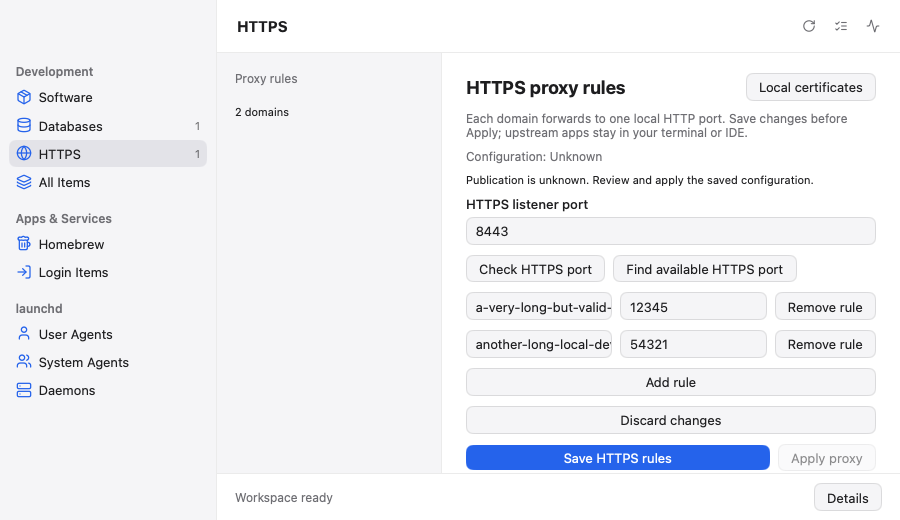
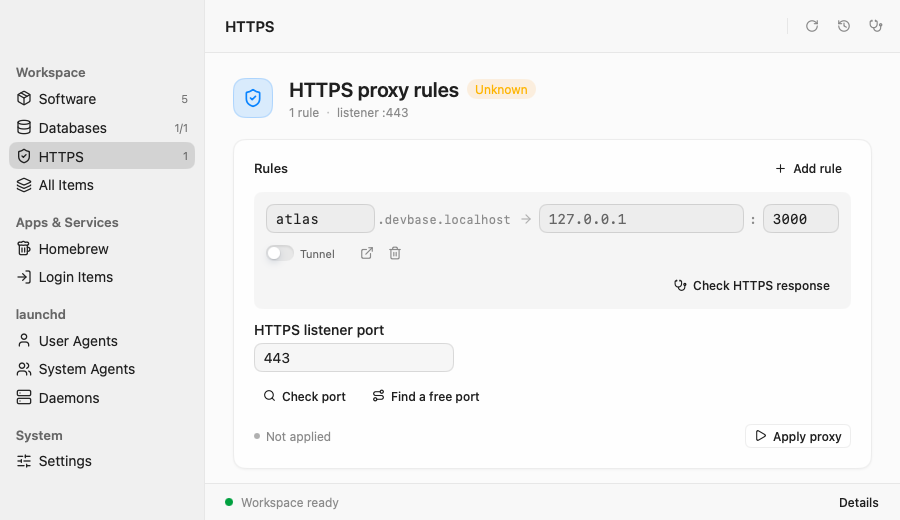
Update development UI documentation and remove stale screenshots

diff --git a/docs/product-scope.md b/docs/product-scope.md
@@ -14,7 +14,7 @@ HTTPS provides a single configuration page with a table of **Domain → Local po
 
 ## Lifecycle and safety
 
-Closing the window leaves managed work running. Quitting leaves background HTTPS proxy and Cloudflare tunnel `launchd` jobs running without prompting; when managed databases or unsaved edits are present, Quit offers a clear choice to keep managed resources or stop selected app-owned database jobs. Authorization and trust must be shown as separate operations. The app does not take ownership of unrelated processes, system services, Homebrew kegs, hosts entries, or certificates. The optional privileged helper only serves the Devbase build it was installed from, running as the installing user. Legacy state is rejected without silent conversion or overwrite. This product revision has no old Project schema migration or compatibility layer; tests use a fresh isolated state root. Removing old features is not authorization to delete real databases, shared software, or unknown jobs on a user's machine.
+Closing the window leaves managed work running. Quitting leaves background HTTPS proxy and Cloudflare tunnel `launchd` jobs running without prompting; when managed databases or unsaved edits are present, Quit offers a clear choice to keep managed resources or stop selected app-owned database jobs. Authorization and trust must be shown as separate operations. The app does not take ownership of unrelated processes, system services, Homebrew kegs, hosts entries, or certificates. The optional privileged helper only serves the Devbase build it was installed from, running as the installing user. Legacy state is rejected without silent conversion or overwrite. This product revision has no old Project schema migration or compatibility layer; tests use a fresh isolated state root. Devbase (`xyz.jyeu.devbase`) is also a new bundle for users of the released macOS Service Manager v1.0.0 (`xyz.jyeu.msm.app`), and it deliberately imports nothing from it: that app kept only its window frame, a `welcomed` marker and a cache of the last `sfltool dumpbtm` answer, so after the upgrade the window opens at its default size, the welcome guide may appear once more, and Login Items helpers show again after one refresh. The old app is a separate bundle and is not removed. Removing old features is not authorization to delete real databases, shared software, or unknown jobs on a user's machine.
 
 ## Explicitly outside scope
 

diff --git a/docs/development-ui.md b/docs/development-ui.md
@@ -22,13 +22,16 @@ HTTPS is a single rule table. Each row has a Domain name (the `.devbase.localhos
 
 The menu bar shows managed database instances, one HTTPS proxy, and a Cloudflare tunnel row (with its switch and worker count) once a tunnel is configured. Quit distinguishes keeping app-owned services from stopping selected resources. Diagnostics can take the user to the relevant settings without overwriting a dirty database or HTTPS draft. Screenshots used for review are generated by the relevant layout test during the current run; the [acceptance matrix](resources-acceptance.md) records which test owns each behavior.
 
-These representative images come from the synthetic UI layout tests:
+These representative images come from the synthetic layout test `TestDevelopmentDesignLayouts` (fixed `designFixture` data, no machine state):
 
 - [Software at 900×520](images/development/software-resource-900x520.png)
-- [Menu bar at 900×520](images/development/menu-resource-900x520.png)
 - [HTTPS rules at 900×520](images/development/https-rules-900x520.png)
-- [HTTPS diagnostics at 1120×720, dark](images/development/https-diagnostics-1120x720-dark.png)
-- [Database connection profiles at 1120×720, dark](images/development/database-profiles-1120x720-dark.png)
+
+To refresh them, render into the ignored `build/` directory and copy the light 900×520 `Software` and `HTTPS` images over these two files:
+
+```sh
+MSM_DEV_SHOTS=build/resource-shots/dev go test . -run '^TestDevelopmentDesignLayouts$' -count=1
+```
 
 ## Java, Python and external database locations
 
